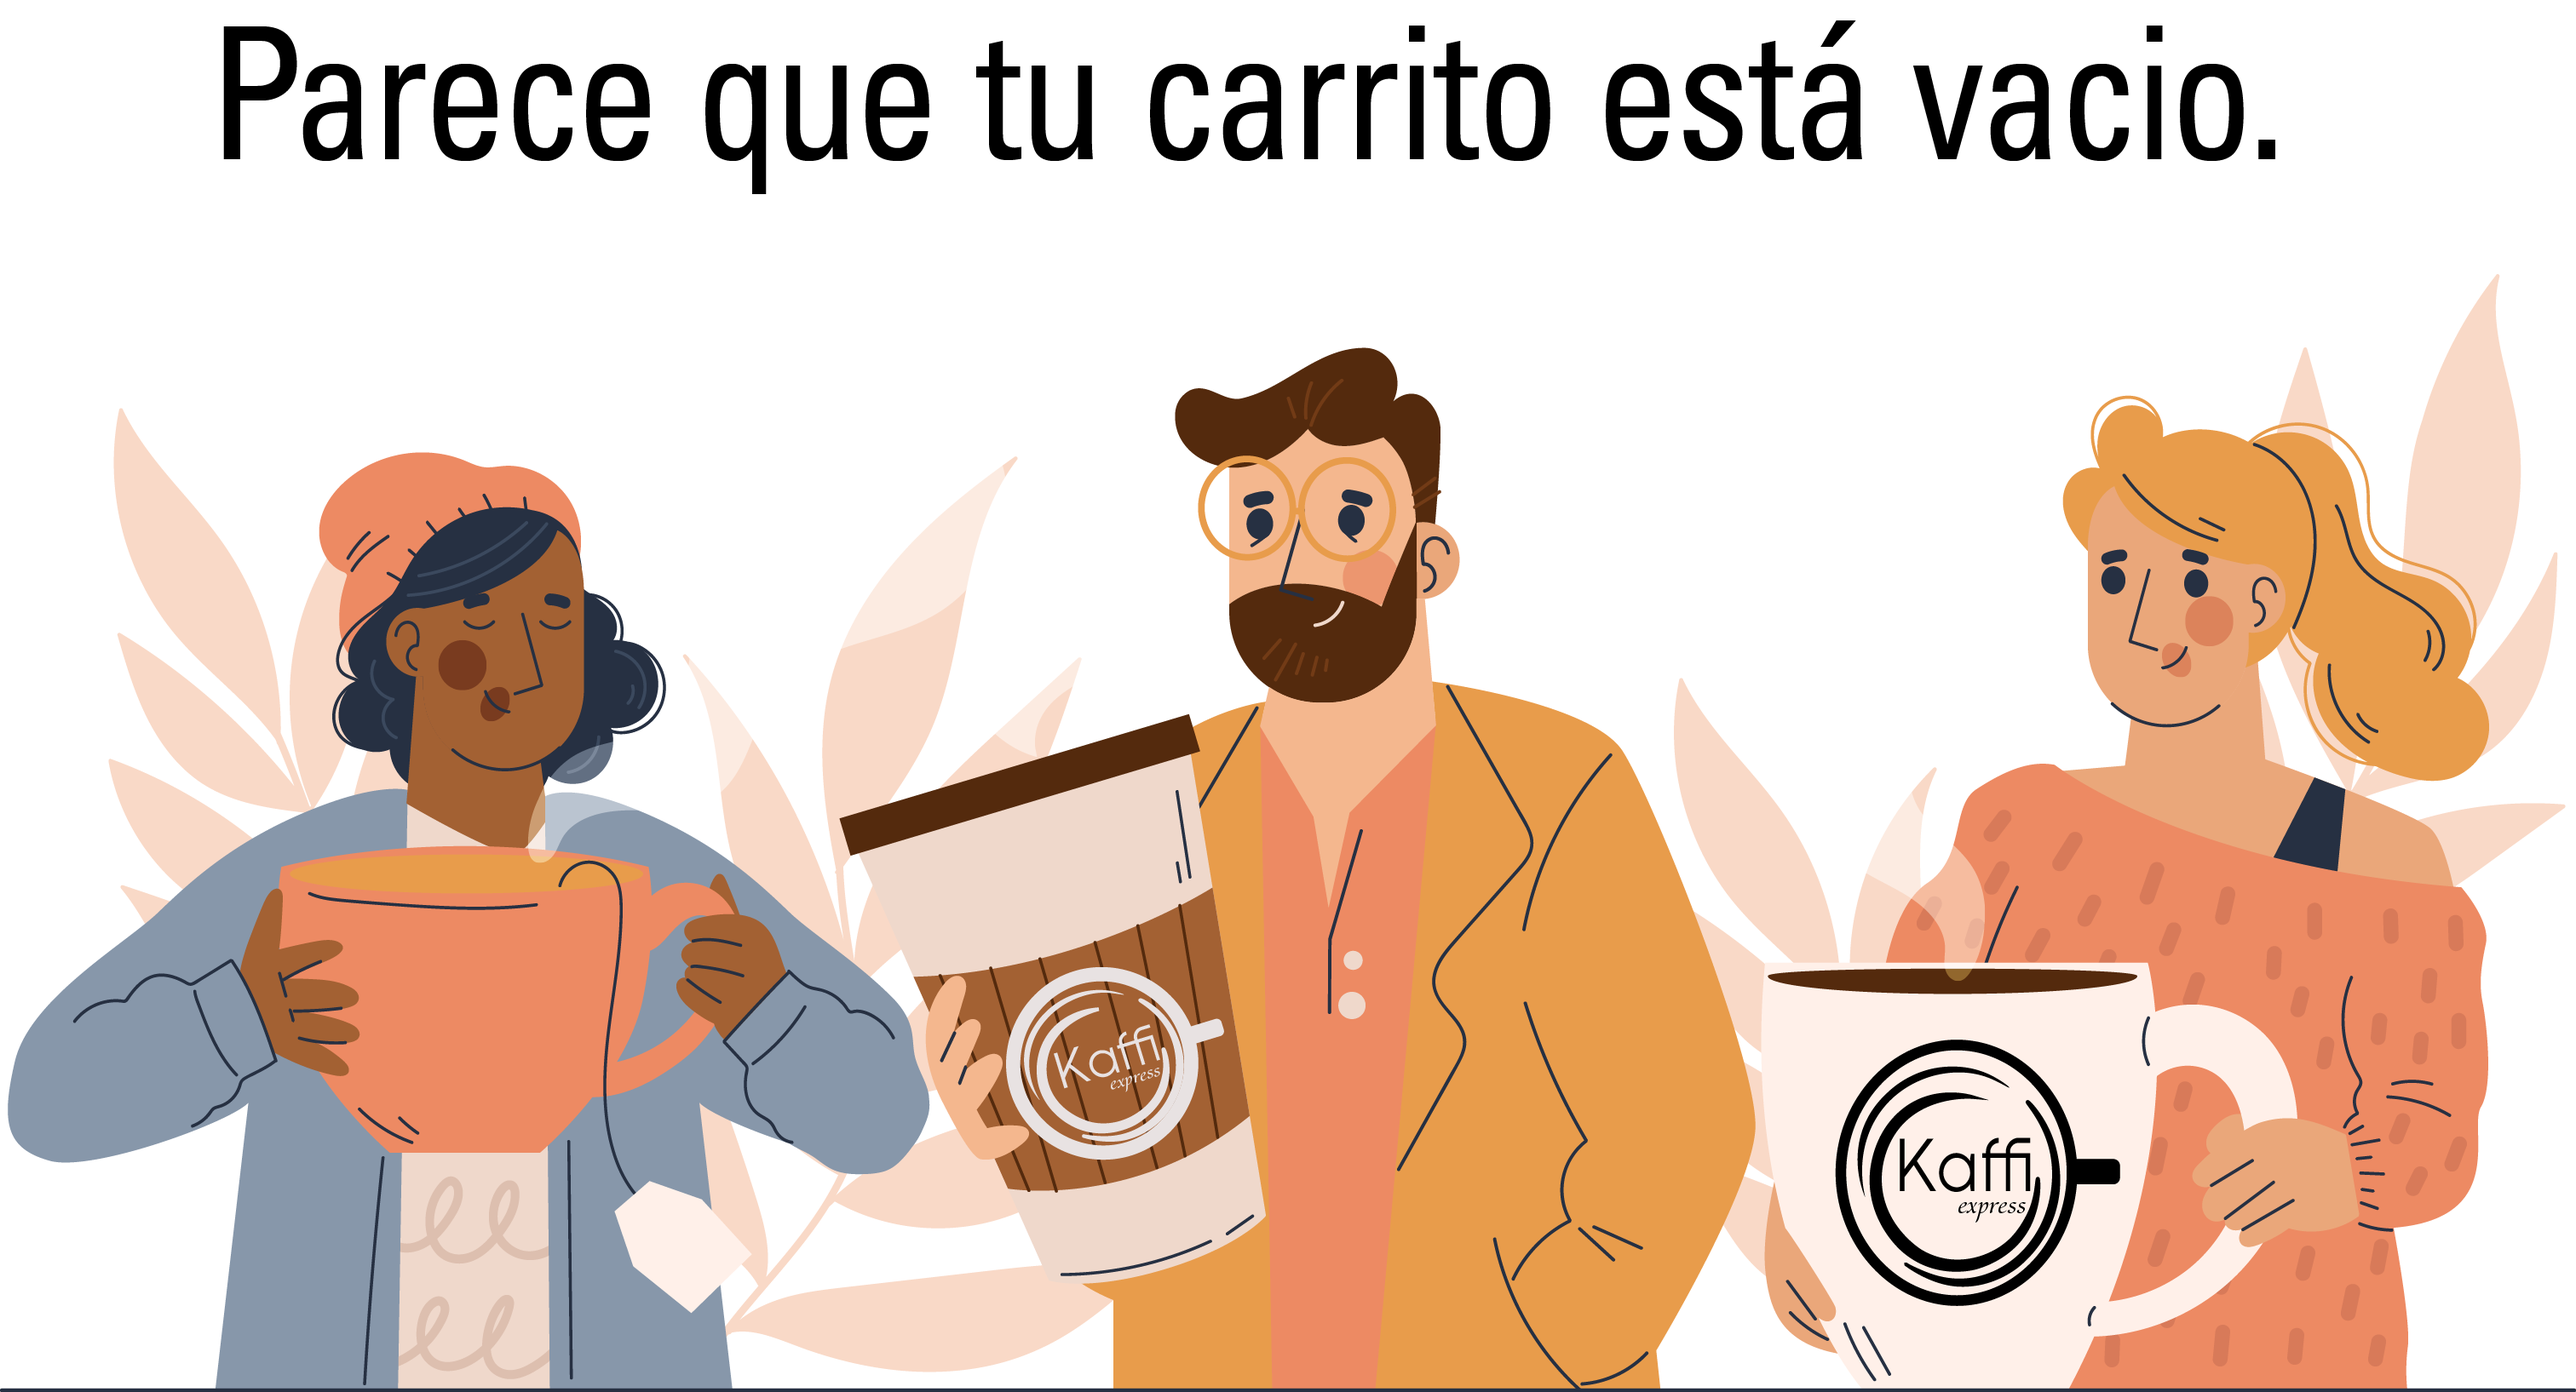
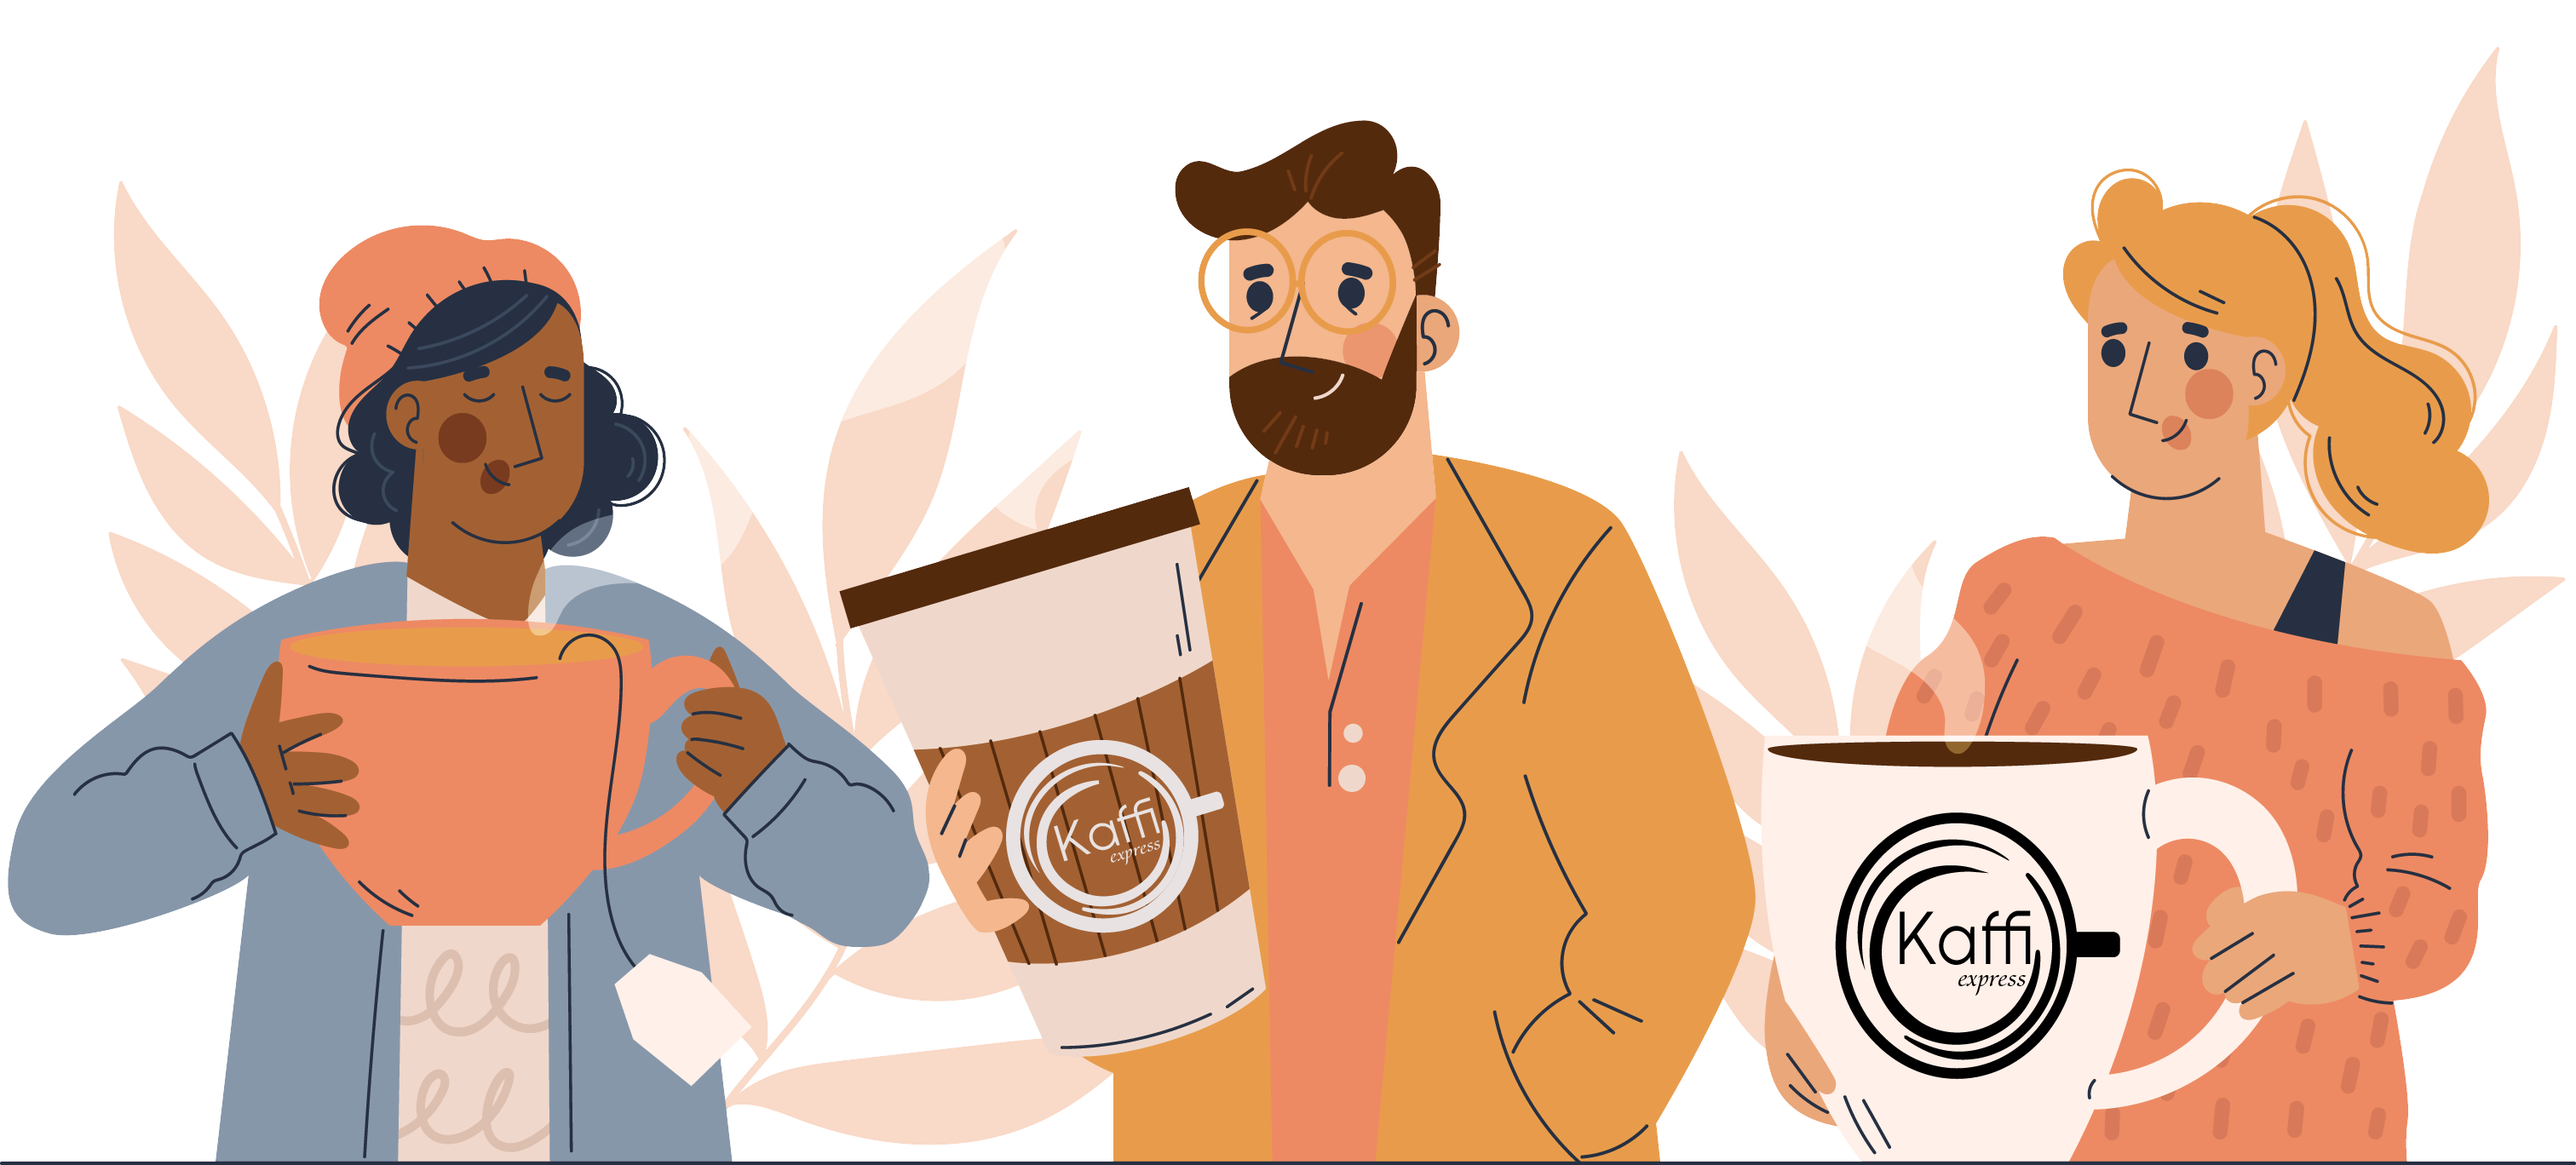
cambios carrito

diff --git a/assets/js/add-delete-products-to-ls.js b/assets/js/add-delete-products-to-ls.js
@@ -124,6 +124,9 @@ export async function deleteProductsOfShoppingCart(element) {
                         // BOTON DE - YA NO QUEDÓ NINGÚN ID CON CANTIDAD
                         if (Object.keys(listOfProductsJS).length == 0) {
                             console.log("carrito vacio");
+                            if(document.getElementById("img-empty-car")){
+                            document.getElementById("img-empty-car").style.display="flex";
+                            }
                         }
                     } else {
                         delete listOfProductsJS[element.id];
@@ -176,6 +179,9 @@ export function deleteAllItemsOfProductClickedFromShoppingCart(element) {
         // BOTON DE ELIMINAR YA NO QUEDÓ NINGÚN ID CON CANTIDAD
         if (Object.keys(listOfProductsJS).length == 0) {
             console.log("carrito vacio");
+            if(document.getElementById("img-empty-car")){
+                document.getElementById("img-empty-car").style.display="flex";
+            }
         }
         // guarda el item en el local storage como "listOfProducts"
         localStorage.setItem("listOfProducts", JSON.stringify(listOfProductsJS));

diff --git a/assets/js/menu-card-class.js b/assets/js/menu-card-class.js
@@ -70,9 +70,9 @@ class MenuCard {
                                 <p class="font-weight-light text-gray">${this.#description}</p>
 
                                 <div class="btn-group  btn-group-sm g-0" role="group" aria-label="Basic mixed styles example">
-                                    <button id="btn-del-product-${this.#id}" type="button" class="btn rounded-start-pill">-</button>
+                                    <button id="btn-del-product-${this.#id}" type="button" class="btn rounded-start-pill quantity-control">-</button>
                                     <button type="button" class="btn ">Agregar</button>
-                                    <button id="btn-add-product-${this.#id}" type="button" class="btn ">+</button>
+                                    <button id="btn-add-product-${this.#id}" type="button" class="btn quantity-control">+</button>
                                     <button type="button" class="btn rounded-end-pill">$ ${this.price}</button>
                                 </div>
                             </div>

diff --git a/assets/pages/shopping-cart.html b/assets/pages/shopping-cart.html
@@ -106,8 +106,13 @@
         
         <section id="shopping-products-container"
             class="container d-flex align-items-center text-center justify-content-center">
-            <div id="img-empty-car" class="justify-content-center align-items-center">
-                <img src="../images/carrito vacio.png" class="img-fluid w-50 py-5">
+            <div id="img-empty-car" class="flex-column justify-content-center align-items-center">
+                <h3 class="pt-3">Parece que tu carrito esta vacio</h3>
+                <p>Regresa al menú para agregar productos</p>
+                <a href="../pages/menu.html">
+                    <button>Volver al menú</button>
+                </a>
+                <img src="../images/carrito vacio.png" class="img-fluid w-75 py-5">
             </div>
             <div id="products-to-buy" class="row d-flex align-items-center justify-content-center">
             </div>

diff --git a/assets/styles/shopping-cart.css b/assets/styles/shopping-cart.css
@@ -174,7 +174,22 @@ button.cantity-control{
 
 #img-empty-car{
     display: none;
+    color: #361c12;
+    font-family: 'Imprima', sans-serif;
+    font-size: 1em;
 }
+#img-empty-car h3{
+    color: #361c12;
+    font-weight: bold;
+}
+#img-empty-car button{
+    background-color: #361c12;
+    color:#faf6ec;
+    text-align: center;
+    border: none;
+    padding: 0.5em 0.5em;
+}
+
 /*================================ Footer Styles ================================*/
 footer {
     background-color: #361c12;

diff --git a/assets/styles/menu.css b/assets/styles/menu.css
@@ -196,6 +196,10 @@ html{
     color: #ffffff;
 }
 
+#products button.quantity-control:hover{
+    background-color: #361c12cc;
+}
+
 #products img{
     width: 120px;
     height: 120px;
